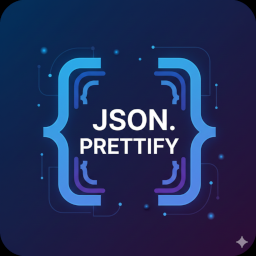
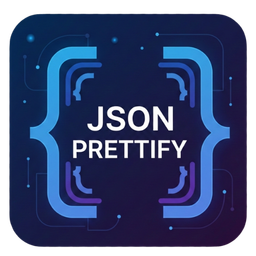
fix: Maintenance (#6)
* feat: remove Open VSX

* fix: test.yaml

* fix: repair badges in Readme

* chore: remove comments

* chore: set test only for linux

* chore: replace icon

* fix: keybindings for mac

---------

diff --git a/README.md b/README.md
@@ -1,10 +1,11 @@
 # Stringify Your Log
 
-[![Version](https://img.shields.io/visual-studio-marketplace/v/YOUR_PUBLISHER.vscode-pretty-log-js-ts)](https://marketplace.visualstudio.com/items?itemName=YOUR_PUBLISHER.vscode-pretty-log-js-ts)
-[![Installs](https://img.shields.io/visual-studio-marketplace/i/YOUR_PUBLISHER.vscode-pretty-log-js-ts)](https://marketplace.visualstudio.com/items?itemName=YOUR_PUBLISHER.vscode-pretty-log-js-ts)
-[![Rating](https://img.shields.io/visual-studio-marketplace/r/YOUR_PUBLISHER.vscode-pretty-log-js-ts)](https://marketplace.visualstudio.com/items?itemName=YOUR_PUBLISHER.vscode-pretty-log-js-ts)
-[![Build Status](https://github.com/D-Town/vscode-pretty-log-js-ts/actions/workflows/test.yml/badge.svg)](https://github.com/D-Town/vscode-pretty-log-js-ts/actions)
-[![License](https://img.shields.io/github/license/D-Town/vscode-pretty-log-js-ts)](LICENSE)
+[![Version](https://img.shields.io/visual-studio-marketplace/v/dtown.stringify-your-log?style=flat-square)](https://marketplace.visualstudio.com/items?itemName=dtown.stringify-your-log)
+[![Installs](https://img.shields.io/visual-studio-marketplace/i/dtown.stringify-your-log?style=flat-square)](https://marketplace.visualstudio.com/items?itemName=dtown.stringify-your-log)
+[![Rating](https://img.shields.io/visual-studio-marketplace/r/dtown.stringify-your-log?style=flat-square)](https://marketplace.visualstudio.com/items?itemName=dtown.stringify-your-log)
+[![Build Status](https://img.shields.io/github/actions/workflow/status/D-Town/stringify-your-log/test.yml?branch=main&style=flat-square)](https://github.com/D-Town/stringify-your-log/actions)
+[![License](https://img.shields.io/github/license/D-Town/stringify-your-log?style=flat-square)](LICENSE)
+
 
 
 A VS Code extension for JavaScript and TypeScript that inserts readable debug logs fast.
@@ -32,8 +33,8 @@ This extension is designed for backend workflows where you want predictable outp
 
 ### Default Keybindings (macOS)
 
-- `cmd + alt + l` → Insert pretty log
-- `cmd + alt + shift + l` → Insert full log
+- `cmd + cmd + l` → Insert pretty log
+- `cmd + cmd + shift + l` → Insert full log
 
 Note: These shortcuts may conflict with other extensions or OS bindings. If they do, change them in  
 `Preferences -> Keyboard Shortcuts`.
